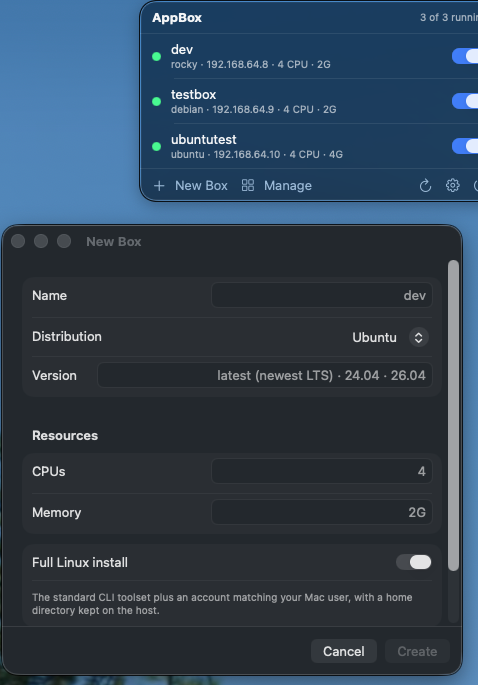
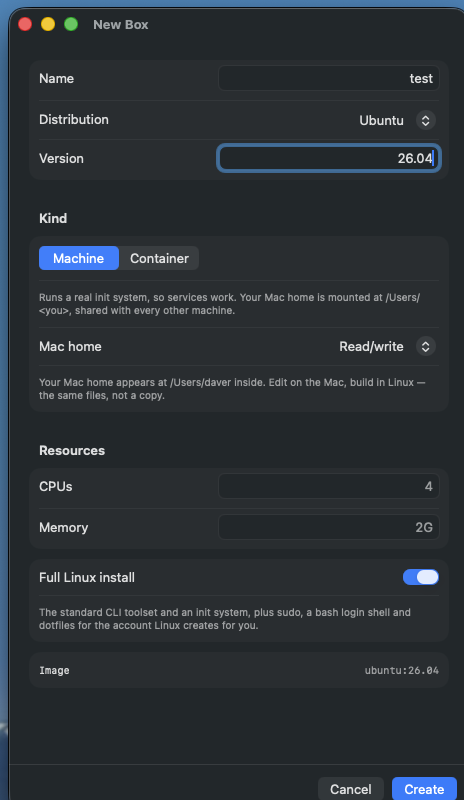
Sync from internal

diff --git a/Sources/AppBoxKit/LogText.swift b/Sources/AppBoxKit/LogText.swift
@@ -1,0 +1,68 @@
+import Foundation
+
+/// Makes machine and container logs fit to read in a plain text view.
+///
+/// A machine's console is a real Linux boot log, and systemd writes it in
+/// colour: the raw text is full of `ESC[0;1;31m` colour codes and `ESC]8;;`
+/// hyperlink sequences. A terminal renders those; a SwiftUI `Text` prints them
+/// literally, which buries the actual message in punctuation.
+public enum LogText {
+
+    /// Strip ANSI escape sequences, leaving the text they were decorating.
+    ///
+    /// Handles the two forms that appear in practice: CSI (`ESC[` … final byte
+    /// in `@`–`~`), which covers colour and cursor movement, and OSC (`ESC]` …
+    /// terminated by BEL or `ESC\`), which is how systemd emits clickable unit
+    /// names. Anything else is left alone rather than guessed at.
+    public static func plain(_ text: String) -> String {
+        var output = String()
+        output.reserveCapacity(text.count)
+
+        var index = text.startIndex
+        while index < text.endIndex {
+            let character = text[index]
+            guard character == "\u{1B}" else {
+                output.append(character)
+                index = text.index(after: index)
+                continue
+            }
+
+            let next = text.index(after: index)
+            guard next < text.endIndex else { break }  // trailing ESC: drop it
+
+            switch text[next] {
+            case "[":
+                // CSI: parameters and intermediates, then one final byte.
+                var scan = text.index(after: next)
+                while scan < text.endIndex, !("@"..."~").contains(text[scan]) {
+                    scan = text.index(after: scan)
+                }
+                index = scan < text.endIndex ? text.index(after: scan) : scan
+
+            case "]":
+                // OSC: runs until BEL, or until ESC \ (the string terminator).
+                var scan = text.index(after: next)
+                while scan < text.endIndex {
+                    if text[scan] == "\u{07}" {
+                        scan = text.index(after: scan)
+                        break
+                    }
+                    if text[scan] == "\u{1B}",
+                       text.index(after: scan) < text.endIndex,
+                       text[text.index(after: scan)] == "\\" {
+                        scan = text.index(scan, offsetBy: 2)
+                        break
+                    }
+                    scan = text.index(after: scan)
+                }
+                index = scan
+
+            default:
+                // A two-character escape (ESC c, ESC =, …).
+                index = text.index(after: next)
+            }
+        }
+
+        return output
+    }
+}

diff --git a/Sources/AppBoxApp/ManagerView.swift b/Sources/AppBoxApp/ManagerView.swift
@@ -155,17 +155,20 @@ struct BoxDetailView: View {
                 Label("Restart", systemImage: "arrow.clockwise")
             }
 
+            // Short labels: the row holds six buttons, and anything longer
+            // truncates to "Install T…" at the window's minimum width.
             Button {
                 store.provision(box)
             } label: {
-                Label("Install Toolset", systemImage: "shippingbox.and.arrow.backward")
+                Label("Toolset", systemImage: "shippingbox.and.arrow.backward")
             }
+            .help("Install the standard CLI toolset, and finish the account setup")
 
             if box.kind == .machine {
                 Button {
                     store.makeDefault(box)
                 } label: {
-                    Label("Make Default", systemImage: "star")
+                    Label("Default", systemImage: "star")
                 }
                 .disabled(box.isDefault)
                 .help("Use this machine for 'container machine' commands with no -n")
@@ -220,10 +223,13 @@ struct BoxDetailView: View {
         case .none:
             row("Mac home", "Not mounted — this machine cannot see your Mac files")
         case .ro, .rw:
+            // Host and guest paths are the same string — your Mac home is
+            // mounted at its own path inside — so showing an arrow between two
+            // identical paths only reads as a mistake.
             let mount = box.homeMount ?? .rw
             if let home = box.homeDirectory {
                 row(
-                    "Mac home", "\(home.path) → /Users/\(NSUserName())  (\(mount.summary))",
+                    "Mac home", "\(home.path) — the same path inside (\(mount.summary))",
                     monospaced: true, reveal: home)
             }
         }

diff --git a/Tests/AppBoxKitTests/MachineTests.swift b/Tests/AppBoxKitTests/MachineTests.swift
@@ -304,3 +304,35 @@ struct BoxKindTests {
         #expect(!machine.hasHostData)
     }
 }
+
+@Suite("Log text")
+struct LogTextTests {
+
+    /// A real line from a machine's systemd console, which a plain text view
+    /// would otherwise render as punctuation soup.
+    @Test("strips the colour codes systemd writes")
+    func stripsColour() {
+        let raw = "\u{1B}[0;1;31mFailed to initialize kmod context\u{1B}[0m"
+        #expect(LogText.plain(raw) == "Failed to initialize kmod context")
+    }
+
+    @Test("strips OSC hyperlinks, terminated either way")
+    func stripsHyperlinks() {
+        #expect(LogText.plain("a\u{1B}]8;;http://x\u{07}b") == "ab")
+        #expect(LogText.plain("a\u{1B}]0;title\u{1B}\\b") == "ab")
+    }
+
+    @Test("leaves ordinary text, including brackets, alone")
+    func leavesTextAlone() {
+        let text = "[  OK  ] Started nginx.service — A high performance web server\n"
+        #expect(LogText.plain(text) == text)
+    }
+
+    /// Truncated output is normal when a log is read while it is being written.
+    @Test("an unterminated escape does not run away or crash")
+    func unterminated() {
+        #expect(LogText.plain("ok\u{1B}") == "ok")
+        #expect(LogText.plain("ok\u{1B}[0;1") == "ok")
+        #expect(LogText.plain("ok\u{1B}]8;;unfinished") == "ok")
+    }
+}

diff --git a/Sources/AppBoxKit/BoxService.swift b/Sources/AppBoxKit/BoxService.swift
@@ -163,13 +163,17 @@ public struct BoxService: Sendable {
     public func isServiceRunning() -> Bool { client.isServiceRunning() }
 
     /// Recent log output for a box, as one blob for the detail pane.
+    ///
+    /// Stripped of ANSI escapes: a machine's console is a systemd boot log
+    /// written in colour, and a plain text view would show the codes rather
+    /// than obey them.
     public func logs(_ box: Box) -> String {
         switch box.kind {
         case .machine:
-            return machines.client.logText(box.name, lines: 200)
+            return LogText.plain(machines.client.logText(box.name, lines: 200))
         case .container:
             guard let result = try? client.run(["logs", box.name]) else { return "" }
-            return result.stdout + result.stderr
+            return LogText.plain(result.stdout + result.stderr)
         }
     }
 }

diff --git a/README.md b/README.md
@@ -24,7 +24,7 @@ init system baked into images that ship without one, the standard toolset, sudo,
 bash and a furnished home.
 
 <p align="center">
-  <img src="docs/screenshots/menu-bar.png" width="371" alt="The AppBox menu bar dropdown listing two running machines and three stopped containers, each with a state dot and an on/off switch">
+  <img src="docs/screenshots/menu-bar.png" width="372" alt="The AppBox menu bar dropdown listing a running Ubuntu machine with its IP and disk usage, above three stopped containers, each row with a state dot and an on/off switch">
 </p>
 
 <p align="center">
@@ -38,30 +38,42 @@ bash and a furnished home.
 
 ### Create a box
 
-<img src="docs/screenshots/new-box.png" width="478" alt="The New Box window with name, distribution, version, CPU, memory and toolset options">
+<img src="docs/screenshots/new-box.png" width="464" alt="The New Box window with name, distribution and version, a Machine or Container picker, a Mac home mount setting, CPU and memory fields, and a Full Linux install toggle">
 
-Pick a distribution and version, set CPUs and memory. **Full Linux install** is
-on by default — the standard toolset plus an account matching your Mac user,
-with a home directory kept on the host. The version field adapts per
-distribution: it tells you Ubuntu's `latest` means the newest LTS, and that
-Rocky has no `latest` tag at all.
+Pick a distribution and version, then the **kind**: a machine, or a classic
+container. Each choice explains itself, including how your Mac home is
+mounted — read/write, read-only, or not at all. **Full Linux install** is on by
+default: the standard toolset and an init system, plus sudo, a bash login shell
+and dotfiles for the account Linux creates for you.
+
+The version field adapts per distribution — it tells you Ubuntu's `latest`
+means the newest LTS, and that Rocky has no `latest` tag at all.
+
+<img src="docs/screenshots/creating.png" width="383" alt="The dropdown showing a progress row that reads: Creating test… (the first machine of a distro builds an image)">
+
+The first machine of a distro builds a cached image — most images have no init
+system and cannot boot as a machine without one. Every later machine of that
+distro is created in seconds.
 
 ### Manage everything
 
-<img src="docs/screenshots/manager.png" width="876" alt="The management window showing the dev box running, with its user, home directory, host data and console">
+<img src="docs/screenshots/manager.png" width="907" alt="The management window showing the test machine running, with its image, IP, disk usage, Mac home, Linux home, default-machine status and boot console">
 
-Per-box detail: the image it was built from, IP (only assigned while running),
-the box's user account, and both host directories — the persistent home and
-`/data` — each with a reveal-in-Finder button. Boxes built by AppBox run from a
-cached `appbox-base/` image carrying the toolset and the account.
+Per-box detail, adapted to what the box actually is. A machine shows the image
+it was built from, its IP, how much disk it really occupies, your Mac home with
+a reveal-in-Finder button, the separate Linux home on the machine's own disk,
+and whether it is the default machine. A container shows its persistent home
+and `/data` instead. The console below carries the boot log — a real systemd
+boot, on a machine.
 
 ### Open a real shell
 
-<img src="docs/screenshots/shell.png" width="860" alt="The management window beside a Terminal window with a shell inside the dev box">
+<img src="docs/screenshots/shell.png" width="1346" alt="A Terminal window running container machine run, with the prompt daver@test in /Users/daver, beside the AppBox dropdown">
 
 **Open Shell** starts the box if needed and drops you into a real Terminal
-window as your own user, in your own home — not as root. Your profile, your
-scrollback, no embedded-terminal compromises.
+window as your own user — not as root. On a machine you land in your Mac home,
+mounted at the same path inside, so the files you were just editing are right
+there. Your profile, your scrollback, no embedded-terminal compromises.
 
 ---
 
@@ -346,9 +358,6 @@ Releases are signed with a Developer ID certificate and notarized by Apple.
 Not done: SSH access and VS Code Remote, port publishing, export/import, and
 auto-updates. Nested virtualization and custom kernels (`container machine`
 supports both) are in the engine but not yet exposed.
-
-The New Box, manager and shell screenshots above predate machines and show the
-older UI; only the menu bar shot is current.
 
 ## License
 
